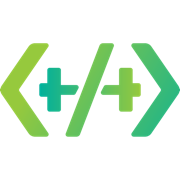
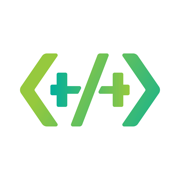
feat(front): PC 앱 다운로드 페이지 + 파비콘 교체

diff --git a/codingpt_front/app/(public)/download/page.tsx b/codingpt_front/app/(public)/download/page.tsx
@@ -1,0 +1,96 @@
+// PC용 CodingPT(데스크톱 트레이 앱) 다운로드 페이지 — 순수 서버 컴포넌트(정적).
+//  앱의 "내 PC 연결 → CodingPT 다운로드" 버튼이 이 페이지(codingpt.ghmate.com/download)를 연다.
+//  ⚠ 외부 import 금지(SSG 빈 본문 버그 회피) — 랜딩 페이지 규칙과 동일.
+
+export const metadata = {
+  title: 'CodingPT for Mac · Windows — 내 PC 연결',
+  description: '내 컴퓨터를 CodingPT에 연결해 폰에서 PC 폴더로 바이브코딩하세요. 설치만 하면 메뉴바에서 실행됩니다.',
+};
+
+// 다운로드 파일 URL(objectstore 공개 경로). 새 버전 배포 시 이 상수만 갱신.
+//  Windows 는 준비되면 EXE_URL 을 채우고 아래 disabled 를 해제.
+const MAC_DMG_URL = 'https://objectstore.ghmate.com/codingpt/common/downloads/CodingPT-arm64.dmg';
+const WIN_EXE_URL = ''; // 준비 중
+
+const STEPS = [
+  { t: '설치', d: '받은 파일을 실행해 CodingPT를 설치하면 메뉴바(트레이)에 아이콘이 상주합니다. Node·터미널 같은 별도 프로그램은 필요 없어요.' },
+  { t: '연결', d: '코딩PT 앱에서 [내 정보 → 내 PC 연결]을 열고 페어링 코드를 발급해, 설치한 CodingPT에 입력하면 이 계정에 연결됩니다.' },
+  { t: '어디서든', d: '연결되면 폰에서 PC 폴더를 IDE로 열어 편집하고, PC 터미널의 claude 같은 CLI 에이전트를 이어서 조작할 수 있어요.' },
+];
+
+export default function DownloadPage() {
+  return (
+    <div style={{ maxWidth: 720, margin: '0 auto', paddingBottom: 60 }}>
+      <section style={{ textAlign: 'center', paddingTop: 12 }}>
+        <div style={{ fontSize: 13, color: 'var(--accent, #46e35a)', fontWeight: 700, letterSpacing: 1 }}>CodingPT for Desktop</div>
+        <h1 style={{ fontSize: 30, fontWeight: 800, marginTop: 8, lineHeight: 1.25 }}>
+          내 컴퓨터를 CodingPT에 연결하세요
+        </h1>
+        <p style={{ fontSize: 15, color: 'var(--text2, #aeb8c8)', marginTop: 12, lineHeight: 1.6 }}>
+          설치만 하면 메뉴바에서 항상 실행됩니다. 폰에서 내 PC 폴더로 바이브코딩하고,
+          PC 터미널을 이어서 조작할 수 있어요.
+        </p>
+      </section>
+
+      {/* 다운로드 버튼 */}
+      <section style={{ display: 'flex', gap: 14, justifyContent: 'center', flexWrap: 'wrap', marginTop: 28 }}>
+        <a
+          href={MAC_DMG_URL}
+          style={{
+            display: 'inline-flex', flexDirection: 'column', alignItems: 'center', gap: 2,
+            minWidth: 220, padding: '16px 24px', borderRadius: 14,
+            background: 'var(--accent, #46e35a)', color: '#052e16', fontWeight: 800,
+            textDecoration: 'none',
+          }}
+        >
+          <span style={{ fontSize: 16 }}>macOS 다운로드</span>
+          <span style={{ fontSize: 12, fontWeight: 600, opacity: 0.75 }}>.dmg · Apple Silicon</span>
+        </a>
+
+        <span
+          aria-disabled
+          style={{
+            display: 'inline-flex', flexDirection: 'column', alignItems: 'center', gap: 2,
+            minWidth: 220, padding: '16px 24px', borderRadius: 14,
+            background: 'var(--surface2, #1a2130)', color: 'var(--text2, #aeb8c8)', fontWeight: 700,
+            border: '1px solid var(--border, #232c3d)',
+          }}
+        >
+          <span style={{ fontSize: 16 }}>Windows</span>
+          <span style={{ fontSize: 12, fontWeight: 600, opacity: 0.7 }}>{WIN_EXE_URL ? '.exe' : '준비 중'}</span>
+        </span>
+      </section>
+
+      {/* macOS 미서명 안내(공증 전까지) */}
+      <p style={{ fontSize: 12.5, color: 'var(--dim, #6b7688)', textAlign: 'center', marginTop: 14, lineHeight: 1.6 }}>
+        macOS에서 “확인되지 않은 개발자” 안내가 뜨면, 앱을 <b>마우스 오른쪽 클릭 → 열기</b>로 한 번 실행하면 됩니다.
+      </p>
+
+      {/* 사용 방법 */}
+      <section style={{ marginTop: 40 }}>
+        <h2 style={{ fontSize: 18, fontWeight: 800, marginBottom: 16 }}>연결 방법</h2>
+        <ol style={{ listStyle: 'none', padding: 0, display: 'flex', flexDirection: 'column', gap: 14 }}>
+          {STEPS.map((s, i) => (
+            <li key={s.t} style={{ display: 'flex', gap: 14, alignItems: 'flex-start' }}>
+              <div style={{
+                flex: 'none', width: 30, height: 30, borderRadius: 999,
+                background: 'var(--surface2, #1a2130)', border: '1px solid var(--border, #232c3d)',
+                color: 'var(--accent, #46e35a)', fontWeight: 800, fontSize: 14,
+                display: 'flex', alignItems: 'center', justifyContent: 'center',
+              }}>{i + 1}</div>
+              <div>
+                <div style={{ fontSize: 15, fontWeight: 700 }}>{s.t}</div>
+                <div style={{ fontSize: 13.5, color: 'var(--text2, #aeb8c8)', marginTop: 3, lineHeight: 1.6 }}>{s.d}</div>
+              </div>
+            </li>
+          ))}
+        </ol>
+      </section>
+
+      <p style={{ fontSize: 12, color: 'var(--dim, #6b7688)', marginTop: 32, lineHeight: 1.6 }}>
+        CodingPT 데스크톱 앱은 사용자 PC의 터미널·파일을 모바일 앱으로 안전하게 릴레이하는 연결 프로그램입니다.
+        AI 자격증명을 다루거나 외부로 전송하지 않습니다.
+      </p>
+    </div>
+  );
+}
